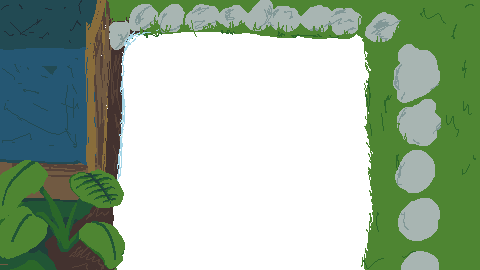
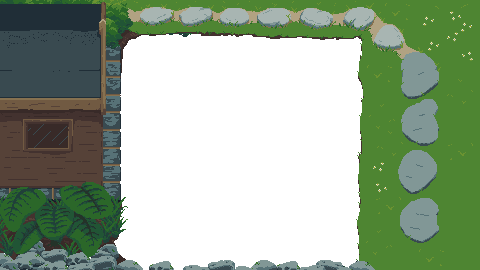
Garden pond background

diff --git a/Stage/Stage.cs b/Stage/Stage.cs
@@ -118,17 +118,18 @@ namespace Hopper
 
             if (StageData.Pond == "Hawkins")
             {
-                Background.Texture = GD.Load<Texture>("res://Stage/Resources/TestPondDrawing4.png");
+                Background.Texture = GD.Load<Texture>("res://Stage/Resources/GardenPond.png");
                 Music = GetNode<AudioStreamPlayer>("../AudioRepository/GardenPondMusic");
             }
             else if (StageData.Pond == "BelAir")
             {
-                Background.Texture = GD.Load<Texture>("res://Stage/Resources/DesertPond.png");
+                Background.Texture = GD.Load<Texture>("res://Stage/Resources/TestPondDrawing4.png");
                 Music = GetNode<AudioStreamPlayer>("../AudioRepository/ForestPondMusic");
             }
             else if (StageData.Pond == "Liffey")
             {
                 Background.Texture = GD.Load<Texture>("res://Stage/Resources/DesertPond.png");
+                Music = GetNode<AudioStreamPlayer>("../AudioRepository/ForestPondMusic");
             }
             else if (StageData.Pond == "Idwal")
             {
